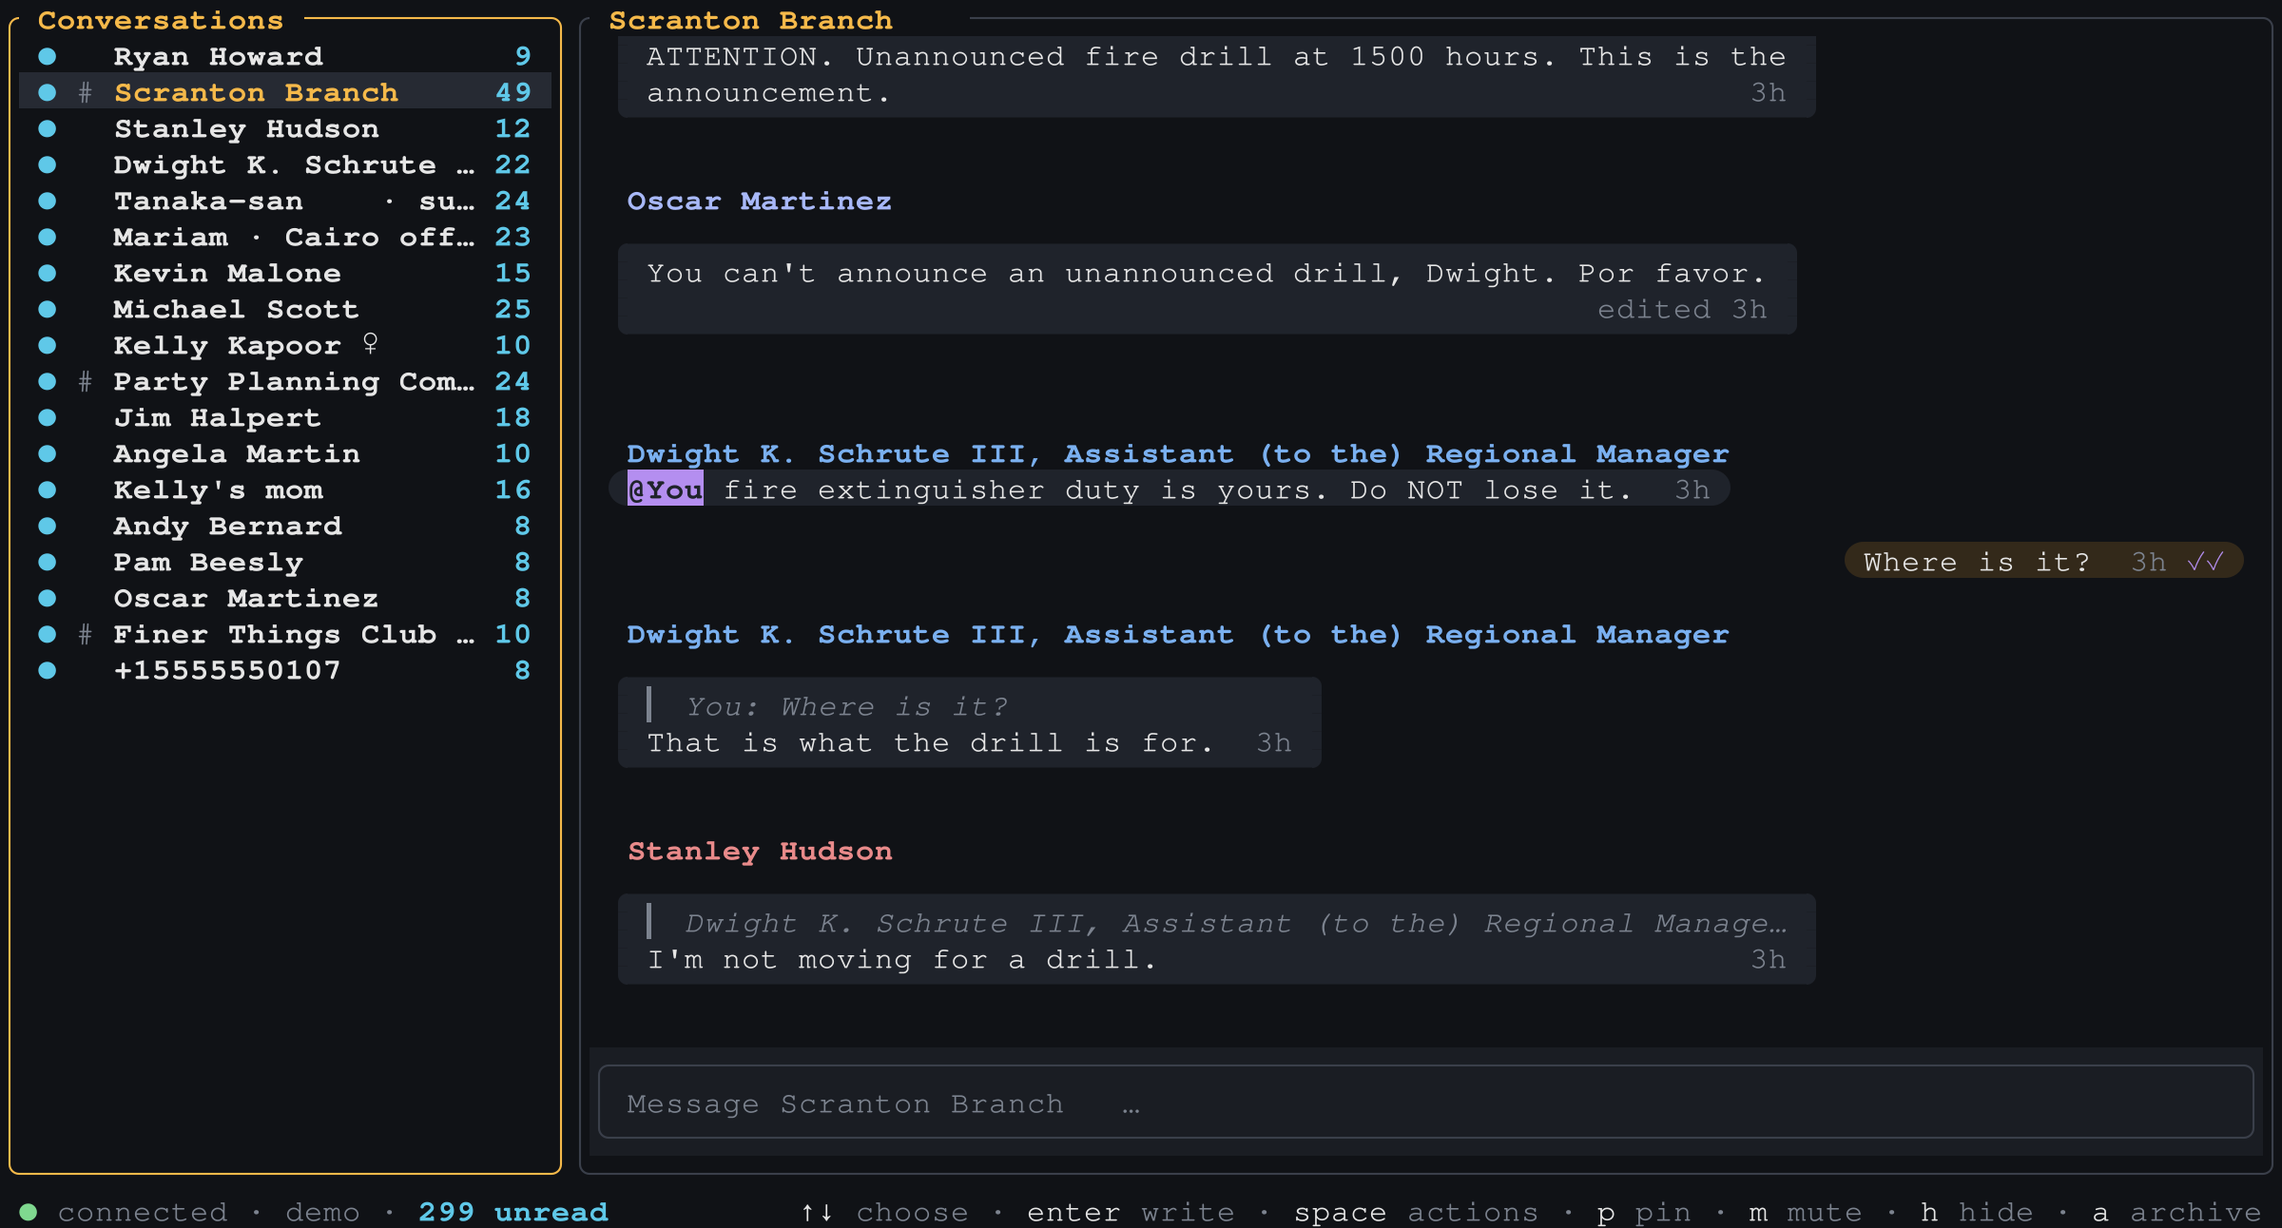
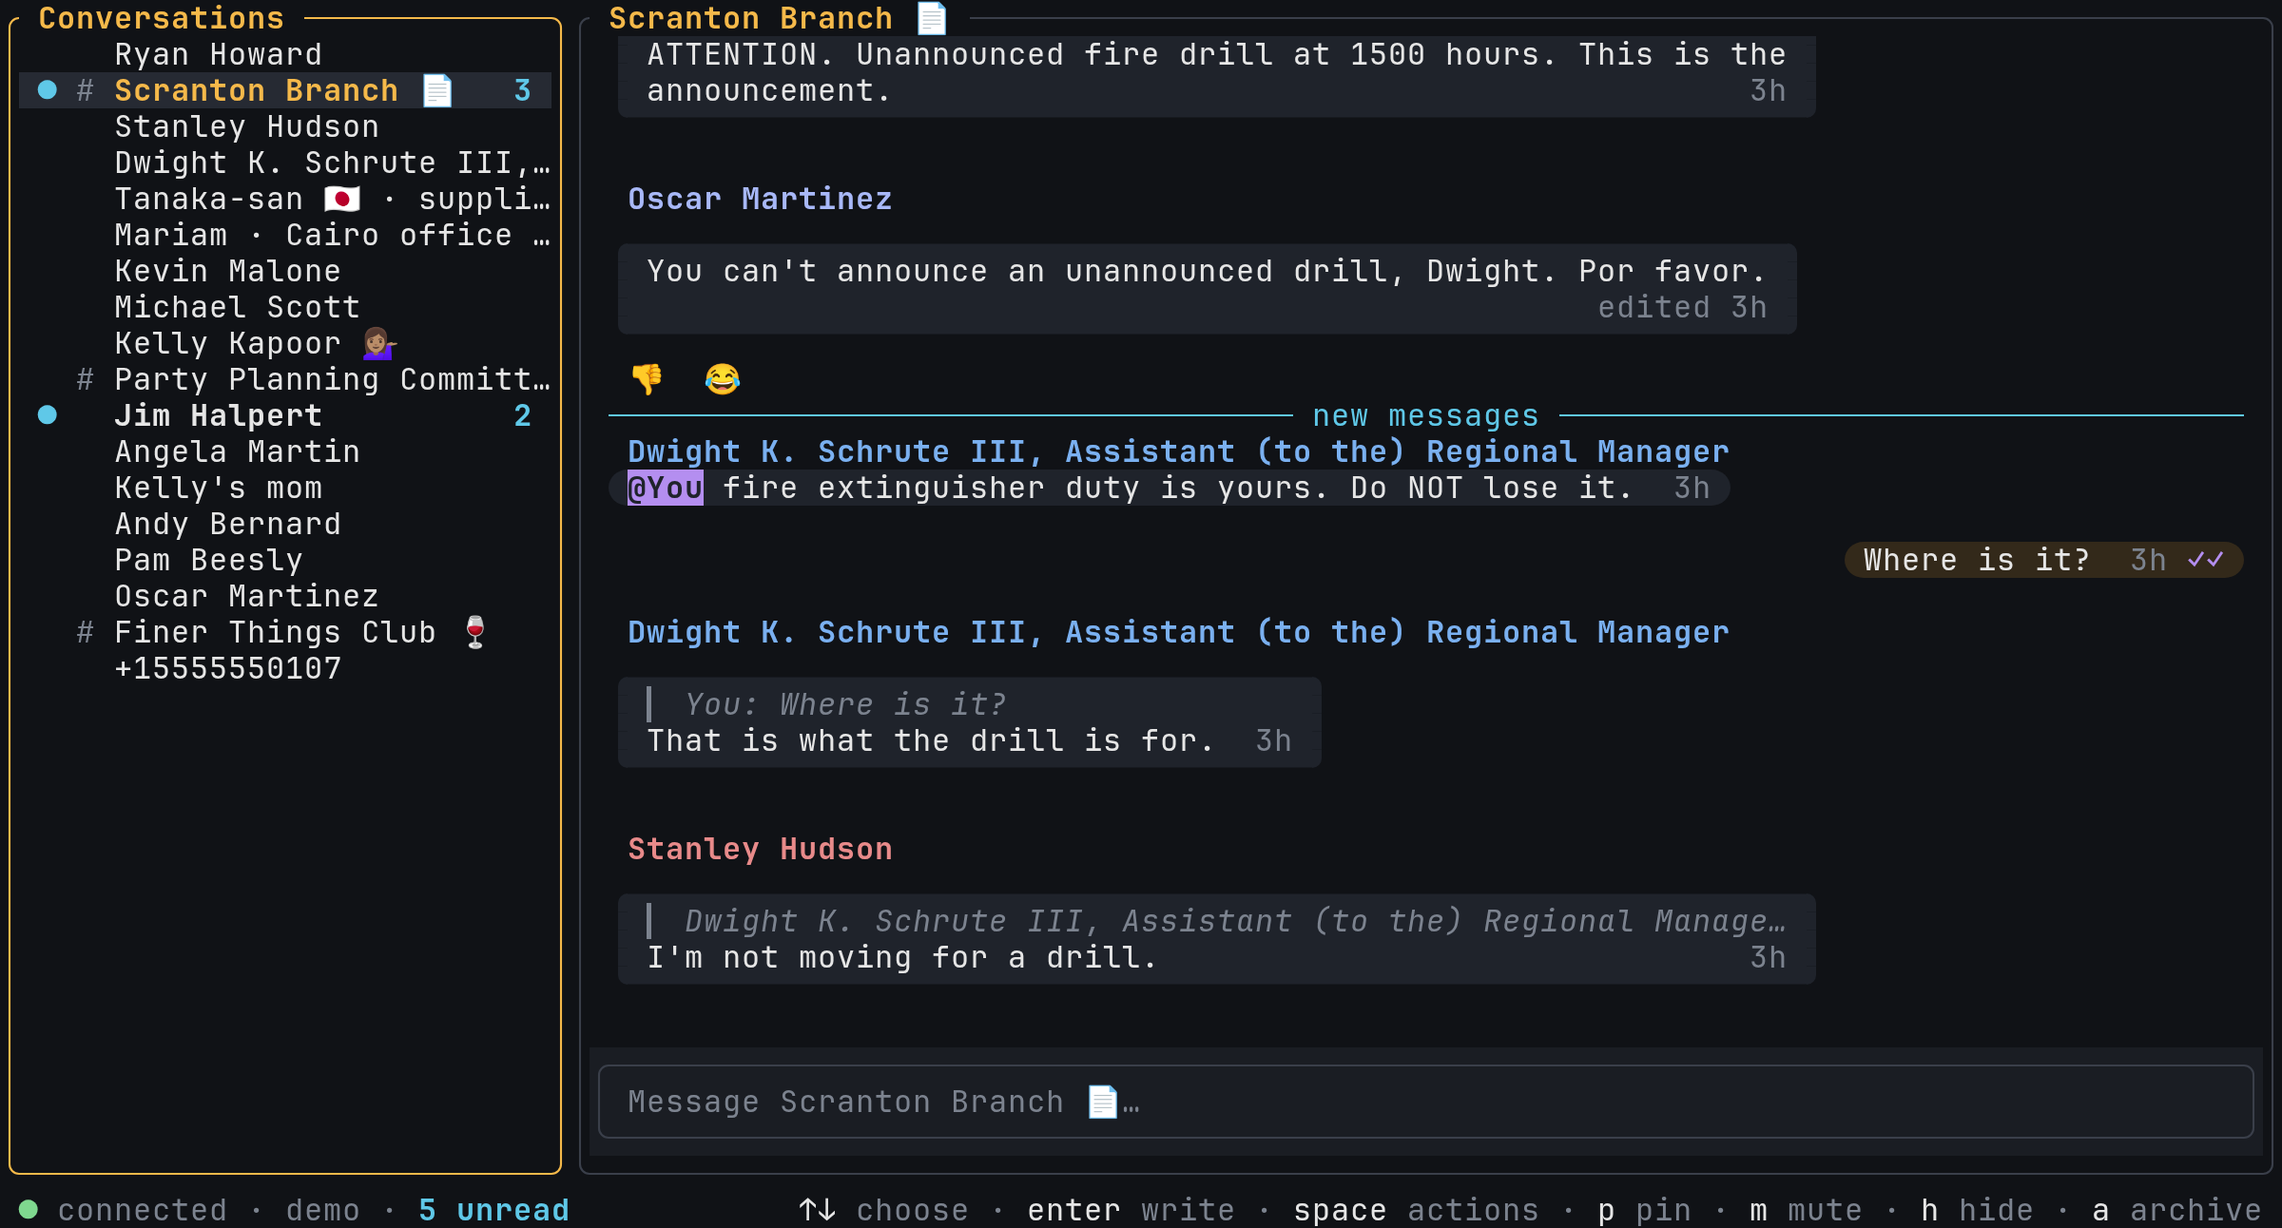
Demo: start with most of the backlog read (D134)
With the whole backlog unread, the demo opened like an inbox full of chores.
Right after the backlog the mock now sends one read sync ("read on the
phone") that leaves only Scranton Branch's 3 newest and Jim's 2 newest
incoming messages unread, so live messages are what's new.

The web session opens the branch chat only once the store has applied that
sync, so its "new messages" line and the list's counts match the poster.
README screenshots regenerated from the new poster.

diff --git a/crates/faro-core/src/mock/sim.rs b/crates/faro-core/src/mock/sim.rs
@@ -18,7 +18,7 @@ use std::cmp::{Ordering, Reverse};
 use std::collections::{BinaryHeap, VecDeque};
 use std::time::Duration;
 
-use super::cast::{Chat, KELLY_PROFILES, Who};
+use super::cast::{Chat, GroupKey, KELLY_PROFILES, Who};
 use super::scenes::{self, Line, SCENES, Scene, Then};
 use super::world::World;
 use super::{MockConfig, MockEpoch};
@@ -49,6 +49,13 @@ const MAX_RUNNING: usize = 2;
 const MENTION_PERCENT: u32 = 25;
 /// Scenes started this recently go to the back of the next shuffled order.
 const RECENT_SCENES: usize = 8;
+/// The chats whose newest backlog messages stay unread, and how many of them
+/// (D134). The rest of the backlog arrives already read on the phone, so the
+/// demo opens like an inbox you keep up with and live messages are what's new.
+const UNREAD_AT_START: [(Chat, usize); 2] = [
+    (Chat::Group(GroupKey::Branch), 3),
+    (Chat::Direct(Who::Jim), 2),
+];
 
 #[derive(Debug, Clone, Copy, PartialEq, Eq)]
 enum Activity {
@@ -191,9 +198,10 @@ pub(super) struct Sim {
     running: Vec<Running>,
     /// Answers from reply pools (generic deletes only take back these).
     answers: VecDeque<MessageRef>,
-    /// How many messages [`Self::schedule_backlog`] put in the queue: the
-    /// driver sends them in one burst after connecting, so a client can tell
-    /// when the backlog has arrived.
+    /// How many messages [`Self::schedule_backlog`] put in the queue, plus
+    /// one for the read sync after them (D134): the driver sends them in one
+    /// burst after connecting, so a client can tell when the backlog has
+    /// arrived.
     backlog: usize,
     /// Index into [`KELLY_PROFILES`] of Kelly's current profile name.
     kelly_profile: usize,
@@ -244,7 +252,7 @@ impl Sim {
         &self.world
     }
 
-    /// How many messages the backlog put in the queue.
+    /// How many messages the backlog put in the queue, plus its read sync.
     pub(super) const fn backlog_len(&self) -> usize {
         self.backlog
     }
@@ -536,13 +544,52 @@ impl Sim {
         }
         // Stable: a message's follow-ups never overtake it.
         events.sort_by_key(|(at, _)| *at);
+        let read = self.backlog_read(&events);
         self.backlog = events
             .iter()
             .filter(|(_, event)| matches!(event, BackendEvent::Message(_)))
-            .count();
+            .count()
+            + usize::from(read.is_some());
         for (_, event) in events {
             self.emit(CONNECT_DELAY, event);
         }
+        if let Some(read) = read {
+            self.emit(CONNECT_DELAY, read);
+        }
+    }
+
+    /// The read sync that follows the backlog (D134): in each chat, the
+    /// newest incoming message, or in the [`UNREAD_AT_START`] chats the one
+    /// before the messages that stay unread. `None` if nothing is read.
+    fn backlog_read(&self, events: &[(u64, BackendEvent)]) -> Option<BackendEvent> {
+        let keep: Vec<(ConversationId, usize)> = UNREAD_AT_START
+            .iter()
+            .filter_map(|&(chat, unread)| Some((self.world.conversation(chat)?, unread)))
+            .collect();
+        // Incoming messages seen per chat, newest first.
+        let mut seen: Vec<(ConversationId, usize)> = Vec::new();
+        let mut read = Vec::new();
+        for (_, event) in events.iter().rev() {
+            let BackendEvent::Message(message) = event else {
+                continue;
+            };
+            if message.direction != Direction::Incoming {
+                continue;
+            }
+            let id = message.conversation;
+            let count = if let Some((_, count)) = seen.iter_mut().find(|(c, _)| *c == id) {
+                *count += 1;
+                *count
+            } else {
+                seen.push((id, 1));
+                1
+            };
+            let unread = keep.iter().find(|(c, _)| *c == id).map_or(0, |(_, n)| *n);
+            if count == unread + 1 {
+                read.push(message.reference());
+            }
+        }
+        (!read.is_empty()).then_some(BackendEvent::ReadElsewhere(read))
     }
 
     /// One backlog line sent at `wall` (and its follow-ups) into `events`.

diff --git a/crates/faro-web/src/demo.rs b/crates/faro-web/src/demo.rs
@@ -342,6 +342,32 @@ mod tests {
         assert!(!text.contains("connecting…"), "{text}");
     }
 
+    /// The demo starts like an inbox you keep up with (D134): only the branch
+    /// and Jim have a few unread messages; live messages bring the rest.
+    #[tokio::test(start_paused = true)]
+    #[expect(
+        clippy::disallowed_methods,
+        reason = "#[tokio::test] expands to block_on; tests may block"
+    )]
+    async fn the_demo_starts_with_two_chats_unread() {
+        let state = first_state().await.unwrap();
+        let mut unread: Vec<(String, u32)> = state
+            .conversations
+            .iter()
+            .filter(|c| c.unread > 0)
+            .map(|c| (state.conversation_title(c.id), c.unread))
+            .collect();
+        unread.sort();
+        assert_eq!(
+            unread,
+            [
+                ("Jim Halpert".to_owned(), 2),
+                ("Scranton Branch 📄".to_owned(), 3)
+            ],
+            "{unread:?}"
+        );
+    }
+
     /// The poster and the live demo are one picture (WEBSITE.md §3.2): the
     /// session's own start, drawn with the poster's clock, gives the same
     /// buffer at the panel's size.

diff --git a/crates/faro-core/src/mock.rs b/crates/faro-core/src/mock.rs
@@ -162,10 +162,13 @@ impl MockBackend {
             .schedule(|sim, now| sim.schedule_error(now, error));
     }
 
-    /// How many messages the backlog will deliver, in one burst right after
-    /// `Connected`. A client that wants to see the whole backlog before it
-    /// acts — the web demo opening its first chat, so its first frame is the
-    /// site poster (D122) — counts this many [`BackendEvent::Message`]s.
+    /// How many events the backlog will deliver, in one burst right after
+    /// `Connected`: its [`BackendEvent::Message`]s and the
+    /// [`BackendEvent::ReadElsewhere`] after them that marks most of it read
+    /// (D134). A client that wants to see the whole backlog before it acts —
+    /// the web demo opening its first chat, so its first frame is the site
+    /// poster (D122) — counts this many of those two kinds (the web demo
+    /// counts the read sync once its store has applied it).
     #[must_use]
     pub fn backlog_len(&self) -> usize {
         self.shared.sim().backlog_len()

diff --git a/crates/faro-web/src/session.rs b/crates/faro-web/src/session.rs
@@ -129,7 +129,13 @@ impl Session {
         ) {
             self.visitor_acted = true;
         }
-        if matches!(event, AppEvent::Backend(BackendEvent::Message(_))) {
+        // The backlog's messages, then the read sync after them once the
+        // store has lowered the counts (D134): the chat opens only then, so
+        // its "new messages" marker and the list's counts are the poster's.
+        if matches!(
+            event,
+            AppEvent::Backend(BackendEvent::Message(_)) | AppEvent::UnreadCleared(_)
+        ) {
             self.waiting_backlog = self.waiting_backlog.saturating_sub(1);
         }
         let redraw = affects_view(&event);

diff --git a/AGENTS.md b/AGENTS.md
@@ -166,6 +166,7 @@ A terminal (TUI) client for Signal, written in Rust, built for people who run ev
   - **Try it:** `crates/faro-web/build.sh` (needs wasm-bindgen-cli at the Cargo.lock version), `python3 crates/faro-web/tools/bundle.py` → `www/dist/demo.html`; drive it with `crates/faro-web/tools/shot.mjs` (`CHROME=` a headless shell; test hooks `demo.text()`, `demo.inspect()`, `demo.timings()`, `window.bench()`).
 - 2026-10-13: M13 Phase 1 chunk 2 done: `crates/faro-site` (binary `faro-site <template dir> <out dir>`) copies `site/template/`, fills `{{version}}`/`{{date}}`/`{{keys}}`/`{{themes}}`/`{{poster}}`/`{{og_image}}` from faro-app's own code (key rows via `Keymap::hint` + `Action::title`, chips via `Theme::all`), and renames CSS/JS/fonts to `name.<10 hex>.ext` rewriting HTML/CSS references — never under `js/` (nginx proxies `/js/s.js`, `/js/init.js` keeps its name). Unknown/unfilled placeholders and I/O errors exit non-zero. `faro-app` gained `version::BUILD_DATE` (its `build.rs` now also emits `FARO_BUILD_DATE`). `site/build.sh` runs the generator and adds `.br` twins when `brotli` is installed. Poster/OG fall back (`{{poster}}` placeholder SVG, plain `/og.png` URL) until chunk 3 writes `site/generated/poster.svg` / `og.png`. nginx needs no change for hashed assets (its `\.[0-9a-f]{8,}\.` location already matches); serving `.br` needs the brotli module + `brotli_static on`, not done.
 - 2026-10-13: **M13 Phase 4 chunk 2 done** (preload, autostart, handover; D124): `site/template/demo.js` (deferred, hashed, no inline code) fetches `/demo/manifest.json` once the page is idle and preloads only when the manifest says so and the device is capable — `(pointer: fine)`, no *Save-Data*, not 2g/slow-2g, and the frame fits 120 columns at ≥ 13 px; otherwise a "▶ Start the demo (N MB)" button, and no button when the frame is too narrow. The wasm is fetched with `priority: "low"` and a progress line over the poster's footer row; the manifests gained `size` (the wasm as is) beside `bytes` (gzipped), because the browser decompresses while the reader counts, and `check.py` checks both. faro-web: `Session::settled()` → `Demo::ready()` (the page polls it for up to 4 s, then `.frame.live` swaps the posters for the canvas), and `Shell::set_theme` → `Demo::set_theme`/`Demo::theme()` so the demo follows the page's scheme while its theme is `faro-dark`/`faro-light`. The grid is fixed at 120×34 so the first live frame is the poster's (D123); **resizing after the swap doesn't refit it** — needs a `set_font_size` or a refit in faro-web. Also fixed: `main` was 46 rem and trapped the panel (now 75 rem, prose sections keep 46 rem, §3.2), and `style.css`'s `light-dark()` calls had their arguments reversed. `shot.mjs --init "<js>"` fakes `(pointer: fine)` in headless Chrome. Owner's checks: MANUAL_TESTS "Website: preload and handover".
+- 2026-10-13: D134 (owner's choice): the demo starts mostly read. After the backlog the mock sends one `ReadElsewhere` (`Sim::backlog_read`, `UNREAD_AT_START`: Scranton Branch keeps 3 unread, Jim 2); the web `Session` opens the branch only after `AppEvent::UnreadCleared`, so the poster still matches. README images regenerated from the new poster.
 
 ### Gotchas found so far
 

diff --git a/docs/DECISIONS.md b/docs/DECISIONS.md
@@ -1315,3 +1315,10 @@ Refines the DESIGN.md §5.1 sketch:
 - **AUR (checkpoint 4, 2026-10-13):** `packaging/aur/faro/` (tagged source tarball, faro-git's recipe, system OpenSSL; no git, so the version line is the bare `0.1.0`) and `packaging/aur/faro-bin/` (dist's `faro-<triple>.tar.xz` for x86_64/aarch64, `depends=(glibc libgcc)`), with `.SRCINFO`s and `packaging/aur/README.md` (release steps: `updpkgsums`, `.SRCINFO`, `makepkg -si`, `namcap`, push). Checksums are `SKIP` until the tag exists. faro-bin was built locally from the checkpoint 2 archive; namcap shows only the usual ld-linux false alarm.
 - **Homebrew (checkpoint 5, 2026-10-13):** dist's generated `faro.rb` (class `Faro`) has the right desc/homepage/`AGPL-3.0-only`, four platform URLs, no `depends_on`; `THIRD_PARTY_NOTICES.md` lands in `share/faro/` (dist has no doc knob). The package description dropped its leading article ("Terminal client for Signal, …") because `brew audit` and lintian both flag it. `brew style`/`audit` run on the owner's Mac after the release. The formula's version is `0.1.0-dev` until Cargo.toml is bumped for the tag.
 - **First release (2026-10-13):** the first `v0.1.0` run failed before publishing (`github-build-setup` had landed inside `[dist.dependencies.apt]`, so apt was asked to install it); with nothing published, the owner chose to move the tag to the fix (`eff73ec`) rather than release 0.1.1. The second run published everything; the x86_64 Linux archive was checked (checksum, `faro --version`, no libcrypto). Lesson: `dist plan` accepts any key in the apt table, so read `packages_install` in `dist plan --output-format=json` after editing dependencies.
+
+### D134. The demo starts mostly read (owner's choice, 2026-10-13)
+
+- **Why:** with the whole backlog unread, the demo opened like an inbox full of chores: every chat had a count and new live messages just piled on. Now it opens like an inbox you keep up with, and live messages are what's new.
+- **How:** right after the backlog the mock sends one `BackendEvent::ReadElsewhere` ("read on the phone", D70): in each chat the newest incoming backlog message, so everything is read, except in `UNREAD_AT_START` (`mock/sim.rs`): Scranton Branch keeps its 3 newest incoming messages unread, Jim his 2 (`Sim::backlog_read`). The owner chose the group; Jim was the agent's pick for the direct chat (the friendliest face for the new temp). Both the web demo and `faro demo` get it (one mock).
+- **Web demo start (D122):** `MockBackend::backlog_len` now counts the read sync too, and `Session` counts it once the store has applied it (`AppEvent::UnreadCleared`), so the branch opens with the counts already lowered and its "new messages" marker in view, as on the poster (`the_poster_is_the_live_demo_start`; `the_demo_starts_with_two_chats_unread`).
+- **Kept:** the web demo still opens the branch chat at the start (owner agreed): visitors who never click still see messages, and the poster and OG image show the product; the logo is one `Esc` away, and `faro demo` still starts on it.

diff --git a/docs/PLAN.md b/docs/PLAN.md
@@ -397,6 +397,7 @@ Design, copy, server runbook and full task lists: [WEBSITE.md](WEBSITE.md) (§7 
 
 ## Progress
 
+- 2026-10-13: **The demo starts mostly read** (D134): only Scranton Branch (3) and Jim (2) start with unread messages; the rest of the backlog arrives read on the phone, so live messages are what's new. Website: the footer and legal pages share the text column, the notes under the demo are trimmed to one line and follow the demo's width.
 - 2026-10-13: **v0.1.0 released** (M8 task 8, D133): repo public, tag at `eff73ec` (first run failed before publishing and was re-tagged), GitHub release with 4 archives and 2 debs, Homebrew formula in `harababurel/tap`, AUR `faro`/`faro-bin`/`faro-git` live. Terminal matrix signed off by the owner (task 1). Legal pages and FAQ filled in. CI green on GitHub, including the site job's browser suite. The owner installed it with Homebrew (Mac mini) and `faro-bin` from the AUR (Arch server), and checked `y` copy over mosh. Owner's: `.deb` and build-from-source installs, screenshots, deployment.
 - 2026-10-13: **M13 4.6 complete, Phase 4 code complete** (D130): real-wasm CDP browser suite wired into the site job with required Chrome/Node 22, loader/unit checks and failure artifacts. Local runs pass 101 assertions/22 scenarios (~42 s), 54 loader checks, five unit tests and 700 native tests/full quality gate; site/no-JS budgets pass. Negative prerequisite/timeout runs fail with reports and cleanup. Actual GitHub execution remains unobserved, not claimed green. Manual/device checks stay deferred. Next: Phase 5 launch polish; no deployment/publication by agents.
 - 2026-10-13: **M13 Phase 5 mechanical polish** (D131): 404 page + nginx `error_page`, `robots.txt`, `sitemap.xml`, canonical/twitter tags, footer link to the build's source commit, README points at getfaro.dev. Full gate, site checks and the browser suite (101/22) pass locally. Owner's: clean-machine install check, screenshots, legal placeholders, FAQ approval, deployment.

diff --git a/docs/MANUAL_TESTS.md b/docs/MANUAL_TESTS.md
@@ -427,6 +427,8 @@ In kitty (directly and inside tmux), `faro demo`, `Ctrl+P` › Settings › Bubb
 
 Notes (browser, version, OS, what went wrong):
 
+- [ ] **Starts mostly read (D134):** the demo opens with only Scranton Branch (3) and Jim Halpert (2) showing unread counts, the footer says `5 unread`, and the open branch shows a "new messages" line above its 3 newest messages. Clicking into the demo clears the branch's count; new live messages add counts as they arrive. `faro demo --fresh` in a terminal also starts with at most those two chats unread (on the logo, nothing open; its shorter backlog may not include Jim's chat).
+
 ## M8: terminal matrix (D50; run after M7 against the real backend, and once now with the demo)
 
 Columns: **direct** = faro straight in kitty; **tmux** = kitty → tmux (with the README's tmux settings); **SSH** = kitty → ssh → tmux on the other machine; **mosh** = kitty → mosh → tmux. Mark each cell ✓, ✗ (add a note below) or – (not applicable). Also try one other terminal per OS (WezTerm/Ghostty/Alacritty/foot on Linux, iTerm2 and Terminal.app on macOS) for the rows marked †.
